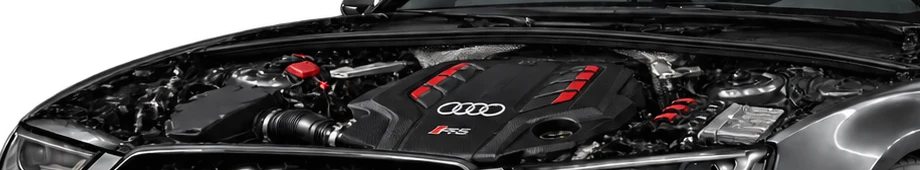
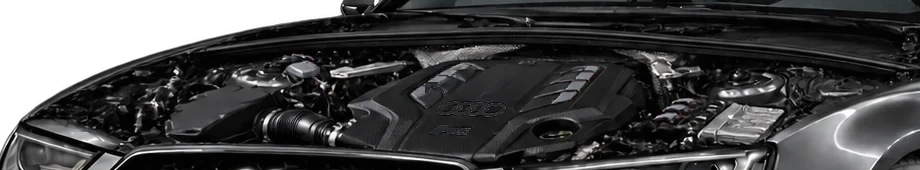
Calibrate rigid bonnet closure to the photographed hinge and requested latch timing

diff --git a/Source/app.js b/Source/app.js
@@ -200,7 +200,7 @@
             <defs><clipPath id="hood-outline"><path d="${hood}"/></clipPath></defs>
             <g class="engine-bay" clip-path="url(#hood-outline)">
               <path d="${hood}" fill="#111213"/>
-              <image href="assets/engine-bay.webp?v=20261024-hood" x="110" y="290" width="920" height="170"/>
+              <image href="assets/engine-bay.webp?v=20261024-hood-hinge" x="110" y="290" width="920" height="170"/>
             </g>
           </svg>
           <canvas class="hood-mesh" width="1672" height="1021"></canvas>
@@ -222,7 +222,8 @@
   function positionHood(car, openness) {
     if (!heroRenderer) return;
     heroRenderer.render(openness);
-    $('.engine-bay', car).style.opacity = String(Math.min(1, openness / .045));
+    // The panel hides the bay first; fade only the final sliver at the latch.
+    $('.engine-bay', car).style.opacity = Math.max(0, Math.min(1, openness * 34 / 1.5));
     car.dataset.hoodOpen = openness.toFixed(3);
   }
   function startHeroLights() {
@@ -246,19 +247,23 @@
       };
       if (!engineReady) { illuminate(); return; }
       let elapsed = 0, previous;
-      // Monotone angle profile estimated from the clip; body/camera motion is excluded.
-      const closing = [1, .96, .80, .61, .43, .27, .13, .04, 0];
-      const slopes = closing.map((value, i) => {
-        if (!i || i === closing.length - 1) return 0;
-        const before = value - closing[i - 1], after = closing[i + 1] - value;
-        return 2 * before * after / (before + after);
-      });
+      // Match cubic-bezier(.25,1,.35,1) between the supplied angular keyframes.
+      // Every frame, including the tiny latch settle, uses the same fixed hinge axis.
+      const ease = (progress) => {
+        let lo = 0, hi = 1;
+        for (let i = 0; i < 16; i++) {
+          const t = (lo + hi) / 2, q = 1 - t;
+          const x = 3*q*q*t*.25 + 3*q*t*t*.35 + t*t*t;
+          if (x < progress) lo = t; else hi = t;
+        }
+        return 1 - Math.pow(1 - (lo + hi) / 2, 3);
+      };
       const closeAt = (progress) => {
-        const step = Math.min(progress * (closing.length - 1), closing.length - 1);
-        const i = Math.min(Math.floor(step), closing.length - 2), t = step - i;
-        const t2 = t*t, t3 = t2*t;
-        return (2*t3-3*t2+1)*closing[i] + (t3-2*t2+t)*slopes[i]
-          + (-2*t3+3*t2)*closing[i+1] + (t3-t2)*slopes[i+1];
+        const keys = [[0,34],[.78,1.5],[.88,-.4],[1,0]];
+        const end = keys.findIndex(([time]) => time > progress);
+        if (end < 1) return 0;
+        const [from, a] = keys[end-1], [to, b] = keys[end];
+        return (a + (b-a)*ease((progress-from)/(to-from))) / 34;
       };
       const animate = (now) => {
         if (!car.isConnected) return;
@@ -266,9 +271,9 @@
         if (previous !== undefined && !document.hidden) elapsed += Math.min(now - previous, 80);
         previous = now;
         let openness = 1;
-        if (elapsed < 2000) car.dataset.phase = 'open';
-        else if (elapsed < 4000) { car.dataset.phase = 'closing'; openness = closeAt((elapsed - 2000) / 2000); }
-        else if (elapsed < 4200) {
+        if (elapsed < 350) car.dataset.phase = 'open';
+        else if (elapsed < 1550) { car.dataset.phase = 'closing'; openness = closeAt((elapsed - 350) / 1200); }
+        else if (elapsed < 1670) {
           car.dataset.phase = 'closing'; car.dataset.hoodOpen = '0';
           $('.car-hood', car).style.opacity = '0';
           if (heroRenderer) { heroRenderer.destroy(); heroRenderer = null; }
@@ -304,7 +309,7 @@
       heroObserver.observe(car);
     };
     const img = $('img', car);
-    const engine = new Image(); engine.src = 'assets/engine-bay.webp?v=20261024-hood';
+    const engine = new Image(); engine.src = 'assets/engine-bay.webp?v=20261024-hood-hinge';
     const underside = new Image(); underside.src = 'assets/hood-underside.webp?v=20261024-hood-rig';
     // Decode both textures before moving the hood. A missing engine asset falls back to lights only.
     const photoReady = img.decode ? img.decode().then(() => true, () => Boolean(img.naturalWidth)) : new Promise((resolve) => {

diff --git a/Source/hood-motion.js b/Source/hood-motion.js
@@ -2,7 +2,7 @@
 (() => {
   'use strict';
   const WIDTH = 1672, PHOTO_HEIGHT = 941, HEADROOM = 80, HEIGHT = PHOTO_HEIGHT + HEADROOM;
-  const CAMERA = { focal: 2000, x: 836, y: 300, normal: [0, -.970, -.243], distance: -1 };
+  const CAMERA = { focal: 2000, x: 836, y: 300, normal: [-.08, -.967, -.241], distance: -1 };
   const add = (a, b) => a.map((v, i) => v + b[i]);
   const sub = (a, b) => a.map((v, i) => v - b[i]);
   const scale = (a, n) => a.map((v) => v * n);
@@ -29,7 +29,9 @@
     return scale(ray, (CAMERA.distance + crown) / dot(CAMERA.normal, ray));
   }
   function surface(u, v) {
-    return lift(photoPoint(u, v), .025 * Math.sin(Math.PI*u) * Math.sin(Math.PI*v));
+    // Keep the perimeter on the photo's seam plane; only the panel's centre is crowned.
+    const crown = .025 * Math.sin(Math.PI * u) * Math.sin(Math.PI * v);
+    return lift(photoPoint(u, v), crown);
   }
   function surfaceNormal(u, v) {
     const delta = .0005;
@@ -42,8 +44,9 @@
     const p = sub(point, HINGE), c = Math.cos(angle), s = Math.sin(angle);
     return add(HINGE, add(add(scale(p,c), scale(cross(AXIS,p),s)), scale(AXIS,dot(AXIS,p)*(1-c))));
   }
-  // Leave headroom for the raised bonnet rather than shortening its opening.
-  const OPENING = 65 * Math.PI / 180;
+  // Use the requested opening angle around the two actual photographed hinges.
+  // Screen-space CSS angles from another crop cannot replace this shared 3D axis.
+  const OPENING = 34 * Math.PI / 180;
   const VERTEX = `
     attribute vec3 a_position;
     attribute vec3 a_normal;
@@ -82,11 +85,12 @@
         color=texture2D(u_texture,v_uv).rgb;
       } else if (u_material<1.5) {
         vec4 paint=texture2D(u_texture,v_uv);
-        color=mix(vec3(.105,.11,.115),paint.rgb,paint.a)*(.84+.16*diffuse);
+        vec3 base=mix(vec3(.07,.075,.08),paint.rgb*.48,paint.a);
+        color=base*(.74+.26*diffuse);
       } else {
         vec3 view=normalize(-v_position);
         float shine=pow(max(0.0,dot(normal,normalize(light+view))),20.0);
-        color=u_color*(.65+.35*diffuse)+vec3(.07)*shine;
+        color=u_color*(.65+.35*diffuse)+vec3(.05)*shine;
       }
       gl_FragColor=vec4(color,1.0);
     }`;
@@ -192,21 +196,26 @@
       gl.viewport(0,0,WIDTH,HEIGHT); gl.enable(gl.DEPTH_TEST); gl.depthFunc(gl.LEQUAL); gl.clearColor(0,0,0,0);
       function render(openness) {
         if(stopped || gl.isContextLost()) return;
-        const value=Math.max(0,Math.min(1,Number(openness)||0));
+        const value=Math.max(-.4/34,Math.min(1,Number(openness)||0));
         if(last===value) return;
         last=value;
         const angle=-OPENING*value;
         gl.clear(gl.COLOR_BUFFER_BIT|gl.DEPTH_BUFFER_BIT);
-        const lower=lift([858,374],-.07), upper=rotate(surface(.94,.64),angle);
-        const length=Math.hypot(...sub(upper,lower)), joint=mix(lower,upper,Math.min(.85,.25/length));
         if(value>.07) {
-          cylinder(lower,joint,.009,cylinderMesh); cylinder(joint,upper,.0033,pistonMesh);
           gl.disable(gl.CULL_FACE);
-          draw(cylinderMesh,2,null,[.065,.07,.075],0); draw(pistonMesh,2,null,[.55,.59,.62],0);
+          for(const [fender,u,v,rCyl,rRod] of [
+            [[312,344],.05,.48,.0075,.0028],
+            [[948,336],.96,.44,.0085,.0032]
+          ]) {
+            const lower=lift(fender,-.055), upper=rotate(surface(u,v),angle);
+            const length=Math.hypot(...sub(upper,lower)), joint=mix(lower,upper,Math.min(.85,.22/length));
+            cylinder(lower,joint,rCyl,cylinderMesh); cylinder(joint,upper,rRod,pistonMesh);
+            draw(cylinderMesh,2,null,[.06,.065,.07],0); draw(pistonMesh,2,null,[.42,.45,.48],0);
+          }
         }
         gl.enable(gl.CULL_FACE); gl.cullFace(gl.BACK); gl.frontFace(gl.CCW);
         draw(topMesh,0,topTexture,null,angle); draw(underMesh,1,underTexture,null,angle);
-        gl.disable(gl.CULL_FACE); draw(rimMesh,2,null,[.20,.21,.22],angle);
+        gl.disable(gl.CULL_FACE); draw(rimMesh,2,null,[.12,.13,.14],angle);
       }
       return { render, destroy };
     } catch (_) { destroy(); return null; }

diff --git a/Source/styles.css b/Source/styles.css
@@ -147,7 +147,7 @@ html[dir=ltr] .hero{background-image:radial-gradient(ellipse 58% 55% at 68% 52%,
 .hero .btn-lg{min-height:52px;font-size:15px;padding-inline:24px}
 .hero-visual{position:relative;z-index:1;min-width:0;direction:ltr}
 .hero-visual::before{content:"";position:absolute;inset:-18% -14% -8%;z-index:0;pointer-events:none;background:radial-gradient(ellipse 44% 34% at 52% 38%,rgba(242,195,134,.36) 0%,rgba(204,142,82,.22) 38%,rgba(132,82,44,.08) 68%,transparent 88%),radial-gradient(ellipse 66% 52% at 50% 48%,rgba(178,116,64,.30) 0%,rgba(110,66,36,.15) 54%,transparent 82%),radial-gradient(ellipse 74% 18% at 51% 84%,rgba(198,138,80,.18) 0%,transparent 72%);filter:blur(10px);transform:translateZ(0)}
-.hero-car{position:relative;z-index:1;aspect-ratio:1672/941;width:94%;margin:3.376794% auto 0;isolation:isolate}
+.hero-car{position:relative;z-index:1;aspect-ratio:1672/941;width:100%;isolation:isolate}
 .hero-car::before{content:"";position:absolute;inset:0;z-index:-2;pointer-events:none;background:radial-gradient(ellipse 29% 5.8% at 36.5% 84.8%,rgba(3,1,0,.92) 0%,rgba(8,4,2,.58) 54%,transparent 100%),radial-gradient(ellipse 25% 5.2% at 74% 82.4%,rgba(3,1,0,.88) 0%,rgba(8,4,2,.52) 54%,transparent 100%),radial-gradient(ellipse 52% 9% at 52% 85.4%,rgba(4,2,1,.84) 0%,rgba(10,5,2,.46) 58%,transparent 100%),radial-gradient(ellipse 78% 12.5% at 51% 86.8%,rgba(6,3,1,.58) 0%,rgba(14,7,3,.24) 58%,transparent 100%);filter:blur(6px);transform:translateZ(0)}
 .hero-car::after{content:"";position:absolute;inset:0;z-index:-1;pointer-events:none;background:radial-gradient(ellipse 10.5% 2.5% at 58.5% 86.4%,rgba(0,0,0,.98) 0%,rgba(4,2,1,.88) 52%,transparent 100%),radial-gradient(ellipse 19% 4.8% at 58.2% 87.2%,rgba(4,2,1,.78) 0%,rgba(10,5,2,.38) 58%,transparent 100%),radial-gradient(ellipse 9% 2.2% at 14.6% 83.3%,rgba(0,0,0,.97) 0%,rgba(4,2,1,.84) 52%,transparent 100%),radial-gradient(ellipse 16.5% 4.4% at 15% 84.2%,rgba(4,2,1,.72) 0%,rgba(10,5,2,.34) 58%,transparent 100%),radial-gradient(ellipse 8.5% 2.1% at 88.5% 78.5%,rgba(0,0,0,.97) 0%,rgba(4,2,1,.82) 52%,transparent 100%),radial-gradient(ellipse 15.5% 4.1% at 88% 79.4%,rgba(4,2,1,.70) 0%,rgba(10,5,2,.32) 58%,transparent 100%);filter:blur(2.2px);transform:translateZ(0)}
 .hero-car img{position:relative;z-index:1;width:100%;height:100%;max-width:none}

diff --git a/Source/index.html b/Source/index.html
@@ -10,13 +10,13 @@
 <link rel="preconnect" href="https://fonts.googleapis.com">
 <link rel="preconnect" href="https://fonts.gstatic.com" crossorigin>
 <link rel="stylesheet" href="https://fonts.googleapis.com/css2?family=IBM+Plex+Mono:wght@400;500;600&family=IBM+Plex+Sans+Arabic:wght@400;500;600;700&display=swap">
-<link rel="stylesheet" href="styles.css?v=20261024-hood-reference">
+<link rel="stylesheet" href="styles.css?v=20261024-hood-hinge">
 </head>
 <body>
 <div id="app"><noscript>مركز وائل حداد لصيانة المركبات الألمانية · البيادر، المنطقة الصناعية، مقابل أدوية الحكمة · 0795866455 · 0790984614</noscript></div>
 <script src="data.js"></script>
-<script src="hood-motion.js?v=20261024-hood-reference"></script>
-<script src="app.js?v=20261024-hood-reference"></script>
+<script src="hood-motion.js?v=20261024-hood-hinge"></script>
+<script src="app.js?v=20261024-hood-hinge"></script>
 <script src="admin.js"></script>
 </body>
 </html>

diff --git a/Source/MAINTENANCE-AR.md b/Source/MAINTENANCE-AR.md
@@ -114,9 +114,9 @@ bash Source/tools/package-store.sh
 
 الصورة والمصابيح في إطار واحد؛ SVG يستخدم `viewBox="0 0 1672 941"`. مسارا `near` و`far` في `heroCar()` مطابقان لمواضع المصابيح. لا تستبدل الصورة أو تقصها أو تقلبها دون التحقق بصرياً من تطابق هذين المسارين في الموبايل والكمبيوتر. تبديل نسخة الصورة وحدها قد يجعل الإضاءة عائمة خارج المصباح.
 
-`startHeroLights()` ينتظر فك صورة السيارة وخامتي المحرك وداخل الغطاء بواسطة `decode()`. تُخفى السيارة أثناء تجهيز الخامات حتى لا تظهر مغلقة أولاً ثم تقفز إلى الفتح؛ أول وضع ظاهر هو الغطاء المفتوح. يبدأ عدّ الحركة عند ظهور 55% على الأقل من إطار السيارة عبر `IntersectionObserver`: وقفة مفتوحة 2000ms، إغلاق 2000ms بمنحنى سرعات مقدّر من الفيديو المرجعي المرسل، ثم استقرار مغلق 200ms قبل بدء تسلسل LED. يُستوفى المنحنى بين نقاطه دون ارتداد أو تجاوز، وتتحرك زاوية الغطاء وحدها؛ موضع الصورة والعجلات وحجم السيارة والكاميرا ثابتة. عند اكتمال الإغلاق تُخفى طبقات الحركة وتُحرر مواردها، فيظهر الغطاء الأصلي المغلق أثناء وقفة الاستقرار. لا توجد مرحلة فتح من وضع مغلق.
+`startHeroLights()` ينتظر فك صورة السيارة وخامتي المحرك وداخل الغطاء بواسطة `decode()`. تُخفى السيارة أثناء تجهيز الخامات حتى لا تظهر مغلقة أولاً ثم تقفز إلى الفتح؛ أول وضع ظاهر هو الغطاء المفتوح. يبدأ عدّ الحركة عند ظهور 55% على الأقل من إطار السيارة عبر `IntersectionObserver`: وقفة مفتوحة 350ms، إغلاق 1200ms بزوايا 34° ثم 1.5° عند 78% و−0.4° عند 88% وصولاً إلى 0° عند 100%، ثم استقرار مغلق 120ms قبل بدء تسلسل LED. يستخدم كل مقطع منحنى cubic-bezier(.25,1,.35,1)، مع استقرار طفيف عند القفل حول المحور المائل نفسه دون تبديله إلى محور أفقي؛ وتتحرك زاوية الغطاء وحدها؛ موضع الصورة والعجلات وحجم السيارة والكاميرا ثابتة. عند اكتمال الإغلاق تُخفى طبقات الحركة وتُحرر مواردها، فيظهر الغطاء الأصلي المغلق أثناء وقفة الاستقرار. لا توجد مرحلة فتح من وضع مغلق.
 
-`hood-motion.js` يحوّل حدود الغطاء في الصورة إلى سطح منحني داخل كاميرا منظور، ويرسمه بواسطة WebGL فوق طبقة المحرك. جميع نقاط السطح تدور كجسم واحد حول المفصلتين الخلفيتين، بزاوية فتح معايرة من الصور الفعلية. الوجه الخارجي يأخذ خامته من صورة السيارة الأصلية، والباطن من خامة العزل المستطيلة؛ حدود القطعة نفسها مشتركة بين الوجهين، ولا تحددها شفافية الخامة. تظهر حافة رفيعة ودعامة غازية متصلة بالهيكل. لا يتحرك باقي الهيكل. الصورة والمصابيح والمحرك تشترك في إحداثيات 1672×941. لوحة الغطاء 1672×1021، وتشمل 80 بكسل مساحة فوق الصورة لإتاحة فتح 65 درجة دون قص الحافة. يظهر إطار السيارة بعرض 94% مع فراغ علوي مكافئ، فيبقى ترتيب الواجهة ثابتاً. يجب الحفاظ على هذا التطابق عند استبدال صورة السيارة. يتم تحرير موارد الرسم عند نهاية الحركة أو مغادرة المسار.
+`hood-motion.js` يحوّل حدود الغطاء في الصورة إلى سطح منحني داخل كاميرا منظور، ويرسمه بواسطة WebGL فوق طبقة المحرك. جميع نقاط السطح تدور كجسم واحد حول المفصلتين الخلفيتين، بزاوية فتح 34 درجة وتاج وسطي ضحل، دون تقويس إضافي للحافة الأمامية. يمر محور الدوران بنقطتي الصورة (490,307) و(1006,319)، ومركزهما (44.737%،33.262%). لا تستخدم نسب قص أو محور من صورة ذات كادر مختلف؛ النسب 40.5% و54.2% تضع المحور أسفل الغطاء في هذه الصورة. الوجه الخارجي يأخذ خامته من صورة السيارة الأصلية، والباطن من خامة العزل المستطيلة بتظليل فحمي داكن؛ حدود القطعة نفسها مشتركة بين الوجهين، ولا تحددها شفافية الخامة. تظهر حافة رفيعة ودعامتان غازيتان على الجانبين متصلتان بالهيكل. لا يتحرك باقي الهيكل ويحجب الغطاء المجسم طبقة المحرك أثناء نزوله؛ تخفت المساحة الأخيرة فقط تحت زاوية 1.5° عند القفل، ويبقى ظل الحجرة داخل حدود قص الغطاء دون إسقاط على الهيكل أو الصدام. الصورة والمصابيح والمحرك تشترك في إحداثيات 1672×941، ويبقى إطار السيارة بعرضه الأصلي الكامل `100%` في مكانه دون إزاحة أو تصغير. لوحة الغطاء 1672×1021، وتشمل 80 بكسل مساحة فوق الصورة. يجب الحفاظ على هذا التطابق عند استبدال صورة السيارة. يتم تحرير موارد الرسم عند نهاية الحركة أو مغادرة المسار.
 
 حركة الغطاء تستخدم `requestAnimationFrame` وتتوقف أثناء إخفاء الصفحة. `clearTimers()` يلغي الإطار عند مغادرة المسار أو إعادة الرسم. المتغير `heroLightsPlayed` يجعل تغيير اللغة أو القائمة أو العودة من الحجز يعرض السيارة مغلقة والمصابيح ثابتة دون إعادة التسلسل؛ إعادة تحميل الصفحة تبدأ دورة جديدة. إذا تعذر فك إحدى خامتي الحركة أو لم يتوفر WebGL تبقى الصورة الأصلية مغلقة وتعمل المصابيح فقط. فقدان سياق الرسم أثناء الحركة ينهيها فوراً ويعرض السيارة الأصلية مع المصابيح. مع تفضيل تقليل الحركة تظهر الحالة النهائية مباشرة.
 

diff --git a/Source/tests/README.md b/Source/tests/README.md
@@ -29,7 +29,7 @@ npm run test:hood
 - `smoke.mjs`: عددها 88 حالة؛ 11 مساراً بالعربي والإنجليزي، 390×664 و1366×768، فاتح وغامق. تفحص أخطاء الصفحة والكونسول والتجاوز الأفقي وتحفظ لقطات كاملة.
 - `flows.mjs`: الفحوص الوظيفية الـ22: الحجز ورابط واتساب، عدم استبدال زر الحجز أثناء الكتابة، الأرقام العربية، الحجوزات ولوحة التحكم، رفع صورة الفحص، اختيار القطعة والموافقة، حالة السيارة، إخفاء العرض وإعادة البيانات، الإنجليزية والتخزين المقفول.
 - `hero.mjs`: تدرّج LED بعد تحميل الصورة، بقاء الإضاءة عند تغيير اللغة أو فتح القائمة والرجوع من الحجز، تدرج ظهور العنوان ولمعته وعدم تكرارهما مع إعادة الرسم، تقليل الحركة للنص والمصابيح، تحميل الشعارات بألوانها الأصلية دون فلاتر وترتيبها، وتوفر العنوان والحجز والسيارة في أول شاشة. تتضمن فحص سطر الشعارات عند 320 و768 بكسل.
-- `hood.mjs`: ظهور السيارة بغطاء مفتوح منذ أول لقطة، ووقفة وإغلاق بتوقيت المرجع ثم استقرار قبل المصابيح، ومقارنة بكسلات العجلات والهيكل وإحداثيات الصورة بين حالات الحركة للتأكد من ثبات السيارة، وعدم الوميض بصورة مغلقة أثناء تحميل الخامات، قراءة بكسلات الغطاء المجسم للتحقق من ارتفاعه فوق السقف وعدم قص حوافه، انتهاء الحركة دون طبقات زائدة، تبديل اللغة أثناء الحركة، تقليل الحركة، وبديل الصورة المغلقة عند تعذر تحميل تفاصيل المحرك أو غياب WebGL أو فقدان سياق الرسم. يحفظ لقطات الغطاء المفتوح والإغلاق والمصابيح للموبايل والكمبيوتر.
+- `hood.mjs`: ظهور السيارة بغطاء مفتوح منذ أول لقطة، ووقفة 350ms وإغلاق 1200ms ثم استقرار 120ms قبل المصابيح، وثبات المفصلتين وأبعاد القطعة وحدود قصها على صورة السيارة عند الإغلاق، ومقارنة بكسلات العجلات والهيكل وإحداثيات الصورة بين حالات الحركة للتأكد من ثبات السيارة، وعدم الوميض بصورة مغلقة أثناء تحميل الخامات، قراءة بكسلات الغطاء المجسم للتحقق من ارتفاعه عن موضع الإغلاق وعدم قص حوافه، انتهاء الحركة دون طبقات زائدة، تبديل اللغة أثناء الحركة، تقليل الحركة، وبديل الصورة المغلقة عند تعذر تحميل تفاصيل المحرك أو غياب WebGL أو فقدان سياق الرسم. يحفظ لقطات الغطاء المفتوح والإغلاق والمصابيح للموبايل والكمبيوتر.
 
 شغّل الفحوص على نسخة `Source/` بوضع `demo`. تفتح متصفحات جديدة ببيانات معزولة؛ لا تنقر زر واتساب ولا ترسل أي رسالة. صورة الرفع التجريبية تُنشأ في مجلد مؤقت للنظام وتُحذف بعد انتهاء الفحص. الخطوط الخارجية تحتاج اتصالاً بالإنترنت؛ أخطاء تحميلها تظهر ضمن النتائج.
 
